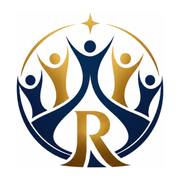
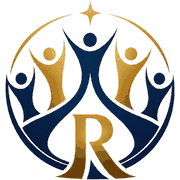
feat(brand): make the emblem transparent and use the specified alt text
Two corrections to the logo integration.

The emblem is a circular badge, so only the white region connected to the image
border is keyed out. The artwork inside the badge is untouched - every ink pixel
is byte-identical before and after - and the badge now sits directly on the navy
chrome instead of on an opaque white square. The footer lockup keeps its white
plate, because its wordmark is navy ink that would otherwise disappear into the
navy footer.

Alt text is now the specified "REFI Foundation logo", and both images use
object-fit: contain so they cannot distort at any width.

Icons are regenerated from the same transparent emblem: icon.png and
apple-icon.png at 512 and 180, and favicon.ico at 32x32 with 16 and 48 also
embedded for crisp small rendering.

diff --git a/src/app/globals.css b/src/app/globals.css
@@ -12,12 +12,12 @@ img { max-width: 100%; }
 .refi-nav { position: absolute; inset: 0 0 auto; z-index: 20; }
 .refi-nav-inner { min-height: 84px; display: flex; align-items: center; justify-content: space-between; gap: 28px; }
 .refi-brand { display: inline-flex; align-items: center; gap: 12px; color: white; font-weight: 700; letter-spacing: -.02em; }
-/* The supplied artwork is dark navy and gold ink on a white background, so it
-   carries its own light plate against the dark navy header and footer. Keying the
-   background out would make the navy ink disappear into the navy chrome. */
-.refi-logo { height: 50px; width: 50px; display: block; flex: none; border-radius: 50%; }
+/* The emblem is a circular badge, so only its exterior background is keyed out
+   and it sits directly on the navy chrome. The lockup's wordmark is navy ink,
+   which would vanish on the navy footer, so it keeps its own white plate. */
+.refi-logo { height: 50px; width: 50px; display: block; flex: none; object-fit: contain; }
 .refi-logo-name { font-size: 15px; letter-spacing: .04em; }
-.refi-footer-logo { width: 264px; max-width: 100%; height: auto; display: block; background: #fff; padding: 10px 14px; border-radius: 2px; }
+.refi-footer-logo { width: 264px; max-width: 100%; height: auto; display: block; object-fit: contain; background: #fff; padding: 10px 14px; border-radius: 2px; }
 .refi-nav-links { display: flex; align-items: center; gap: 28px; color: rgba(255,255,255,.9); font-size: 14px; font-weight: 600; }
 .refi-nav-links a:hover { color: var(--refi-gold-400); }
 .refi-support { background: var(--refi-red-700); color: white; padding: 12px 18px; border-radius: 2px; }

diff --git a/src/app/_components/site-chrome.tsx b/src/app/_components/site-chrome.tsx
@@ -14,7 +14,7 @@ export function SiteHeader() {
           <Image
             className="refi-logo"
             src="/images/refi-foundation-emblem.png"
-            alt="REFI Foundation"
+            alt="REFI Foundation logo"
             width={1013}
             height={1013}
             priority
@@ -44,7 +44,7 @@ export function SiteFooter() {
           <Image
             className="refi-footer-logo"
             src="/images/refi-foundation-logo.png"
-            alt="REFI Foundation"
+            alt="REFI Foundation logo"
             width={988}
             height={1447}
           />
